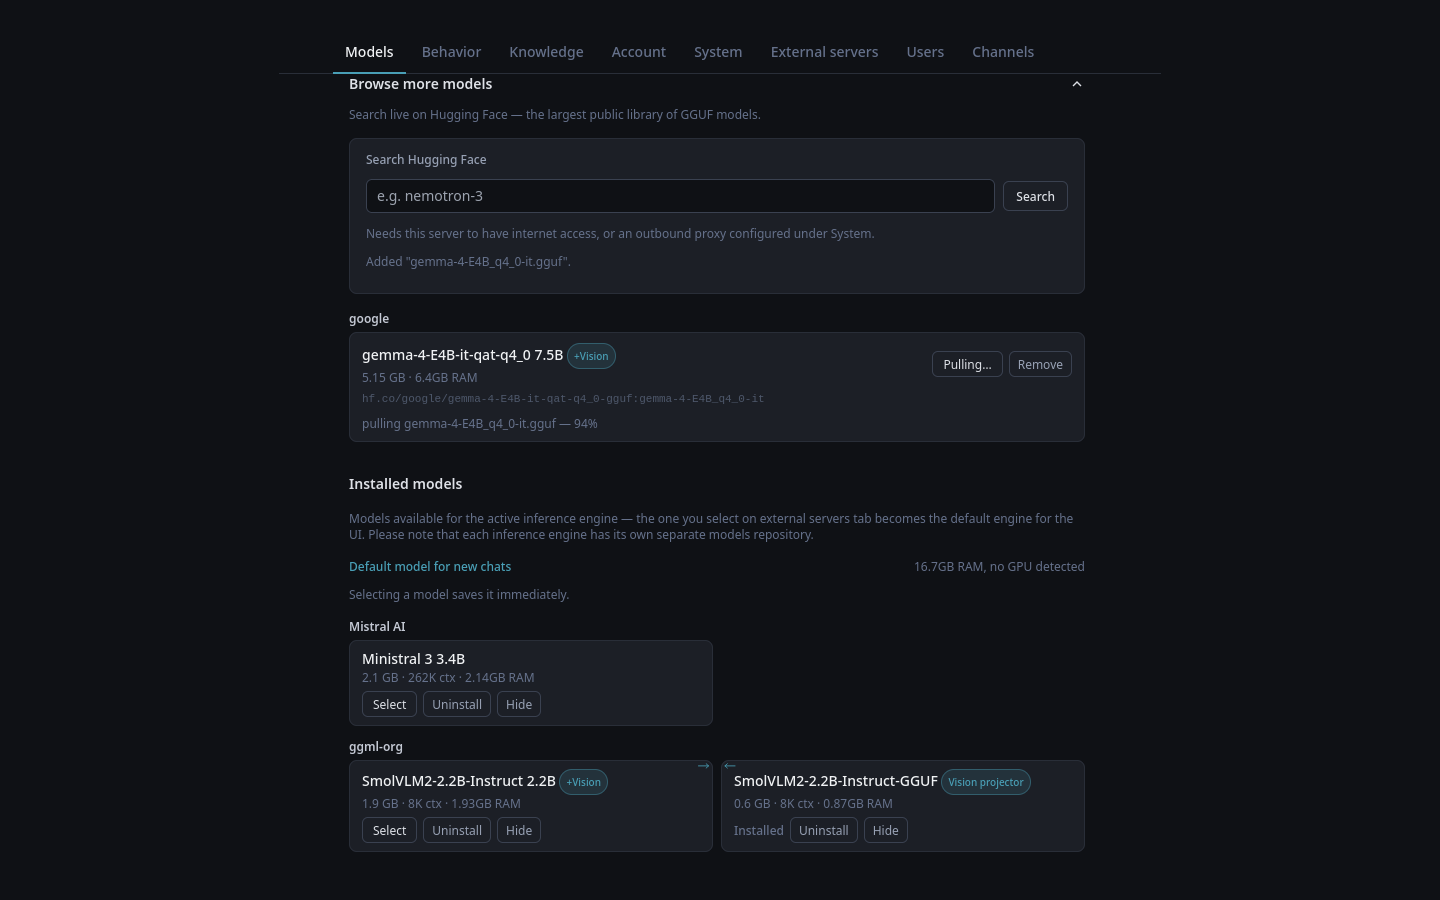
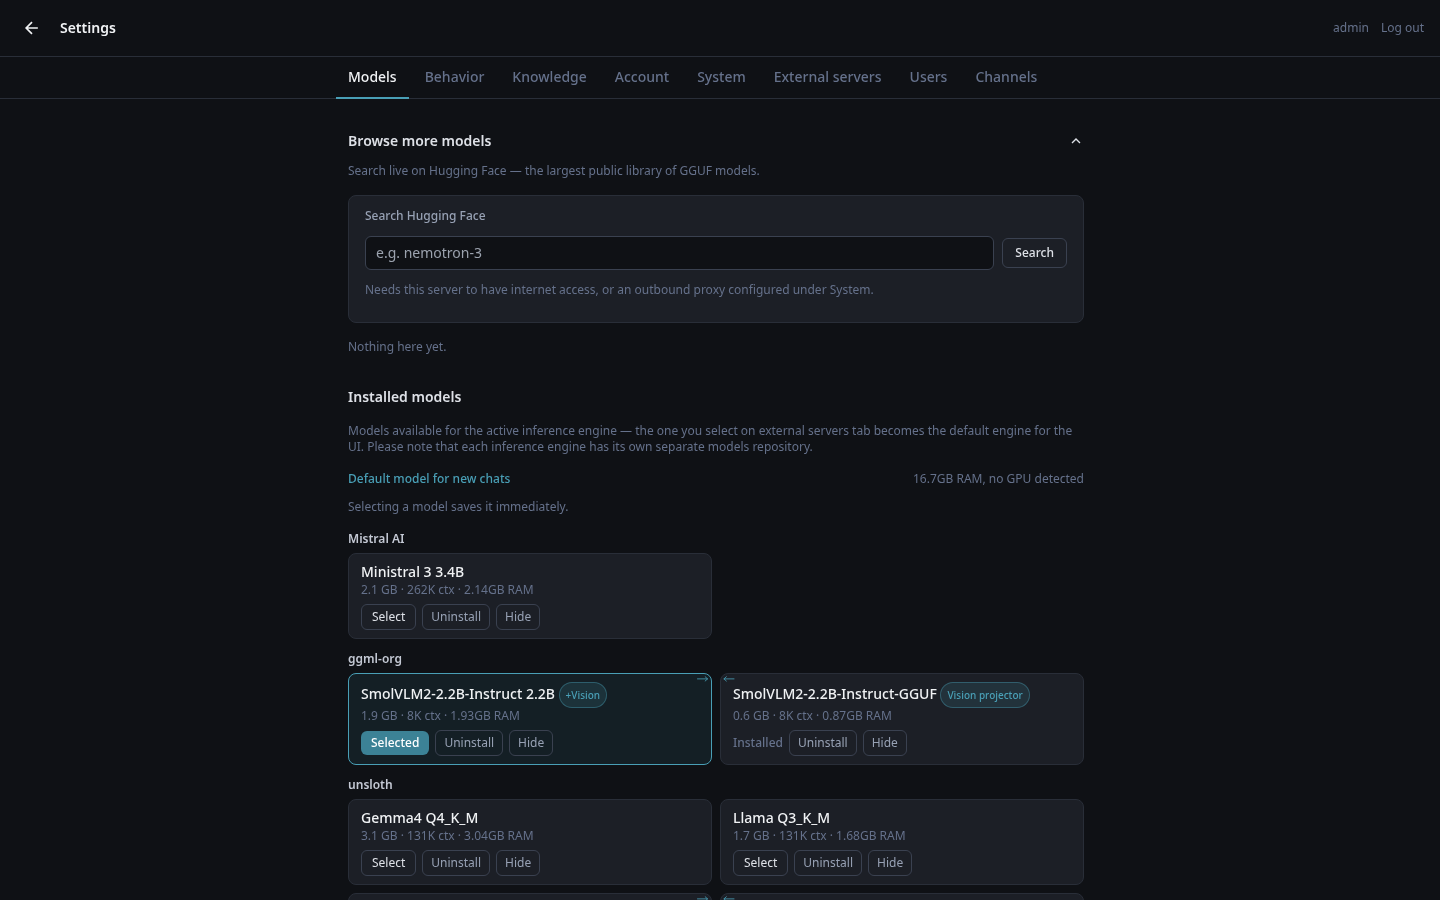
UI + readme.md fixes

diff --git a/app/static/js/workflow_diagram.js b/app/static/js/workflow_diagram.js
@@ -205,6 +205,22 @@ function initWorkflowDiagram() {
     .attr("fill-opacity", 0.14)
     .attr("stroke-width", 2);
 
+  // "K" (top-right) marks stages that run on the native C kernels.
+  nodeGroups
+    .filter((d) => d.native)
+    .append("text")
+    .attr("class", "wf-native-icon")
+    .attr("x", (d) => d.w - 11)
+    .attr("y", 18)
+    .attr("text-anchor", "middle")
+    .attr("fill", ThemeColors.get("--color-slate-300"))
+    .attr("font-size", "11.2px")
+    .attr("font-weight", "480")
+    .attr("font-family", "ui-monospace, Menlo, Consolas, monospace")
+    .text("K")
+    .append("title")
+    .text("Runs on native C kernels");
+
   root
     .append("g")
     .selectAll("text")

diff --git a/app/static/js/workflow_diagram_ml.js b/app/static/js/workflow_diagram_ml.js
@@ -32,11 +32,16 @@ const ML_GROUP = {
   ml_kernels: "ml_support", ml_kv: "ml_support",
 };
 
+// Stages that run on Matricxon's native C kernels (app/native/src/*.c) when that backend is built —
+// the quantized matmuls, embedding-row dequant and the gated delta rule. Marked with a chip icon.
+const ML_NATIVE = new Set(["ml_embed", "ml_attention", "ml_linear_attn", "ml_ffn", "ml_lm_head", "ml_kernels"]);
+
 function mlNode(id, label, col, y, title, location, body, size = {}) {
   return {
     id,
     label,
     category: ML_GROUP[id],
+    native: ML_NATIVE.has(id),
     x: size.x ?? ML_COL[col],
     y,
     w: size.w ?? ML_W,

diff --git a/README.md b/README.md
@@ -1,7 +1,7 @@
 <br>
 <div align="center">
 
-<img src="docs/logo.svg" alt="pAIring" height="64">
+<img src="docs/logo.svg" alt="pAIring" height="86">
 
 </div>
 
@@ -29,19 +29,35 @@ Configure it as a system service: `scripts/pairing.service` is a
 systemd unit template (Linux) — edit a couple of values and
 `systemctl enable` it.
 
-Supports MySQL migration, and multi-server deployment notes: see
-[README.md](README.md).
+Supports MySQL migration and multi-server deployment.
+
+**After install, open the UI and configure the essentials to get started:**
+
+1. Go to **Settings → External servers** and choose your inference engine. Ollama and Matricxon are supported (Matricxon has many more options but still has some important limitations — see the Matricxon repository for details). Both can be pulled and installed directly from there.
+2. After configuring the engine, go to **Settings → Models** and download some models. Embedding models are needed for RAG support, and vision projectors are needed for image understanding in chats and channels.
+3. Once the models are ready, go to **Settings → System** and set the important parameters (such as the default vision model).
+4. Run a few tests.
 
 ## ✨ Features
 
-**💬 Chat**
+**Advanced model management**
+- A model management system that lets you:
+  1. Search, browse and download models directly from Hugging Face repositories, with advanced search and visual indexing to make choosing the right model simple.
+  2. Pull recommended default models right away and get started.
+  3. Manage installed models simply and efficiently, and get started with a few recommended models through a simple pull request.
+
+**Behavior tuning**
+- Supports all the generation parameters (Temperature, Top-P, Top-K, Context window (tokens), and others).
+- Behavior tuning is per user: each user can change these values, and they affect only their own chats.
+
+**Chat**
 - Real-time streaming replies, with attachments (images + documents, up
   to 5 + 1 combined per message).
 - Per-conversation model switching and generation parameters
   (temperature, top-p/k, context window, repeat penalty, reply length).
 - Stop/cancel a reply mid-stream, smart or simple auto-titling.
 
-**👥 Real multi-user, with shared Channels**
+**Real multi-user, with shared Channels**
 - Every user has private conversations no one else can see or list.
 - **Channels** for shared, group conversations — a team standup, a
   student class testing models, whatever fits — with "live" (instant
@@ -49,19 +65,19 @@ Supports MySQL migration, and multi-server deployment notes: see
 - Per-channel managers — trusted members who can steer that channel's model/settings and pinned notes, without
   needing full admin rights over the whole system.
 
-**🧠 Notes — persona / rules / skill**
+**Notes — persona / rules / skill**
 - Reusable, pinnable notes that shape the system prompt per
   conversation — who the model is, what it must follow, what it's
   helping with — editable right from the chat header.
 
-**📚 Knowledge base (RAG)**
+**Knowledge base (RAG)**
 - Drop in `.txt`/`.md`/`.pdf`/`.docx`/`.odt`/`.rtf`/`.html`/`.csv`/`.json`
   and every conversation can automatically search them — a household
   manual or a team's internal docs, same mechanism either way
 - Private-per-user and shared/global scopes, with per-user storage
   quotas; answers cite which document they drew on.
 
-**📊 Live dashboards**
+**Live dashboards**
 - A real usage overview (conversations, messages, users, knowledge
   base).
 - An interactive D3 diagram of the app's own request pipeline, click
@@ -71,11 +87,11 @@ Supports MySQL migration, and multi-server deployment notes: see
   for the host — the kind of visibility that's nice to have and, for a
   shared/production deployment.
 
-**🌓 Robust theme support**
+**Robust theme support**
 - Robust themes schema, covering the whole app
 - Pick one from Settings or the header, with instant live preview.
 
-**🔐 Security, taken seriously either way**
+**Security, taken seriously either way**
 - bcrypt password hashing, signed session cookies, login rate limiting,
   timing-safe unknown-username handling.
 - Role-based access (admin/user); disabling an account keeps its
@@ -83,27 +99,31 @@ Supports MySQL migration, and multi-server deployment notes: see
 - SQLite out of the box, MySQL when you need more — switchable live.
 - Outbound HTTP proxy support with encrypted-at-rest credentials.
 
-**🖥 GPU-aware**
+**GPU-aware**
 - Live GPUs usage shows up right in the dashboard, alongside CPU/RAM/disk.
 
-**⚖ Load balancing**
+**Load balancing**
 - Point at extra ML engine (Ollama or Matricxon) servers (more GPUs, more machines) and this app spreads requests across them, with automatic failover if one goes down.
 - Can also run multiple copies of itself behind one URL, no reverse proxy needed.
 - Or, if you'd rather test it for enterprise use, use a reverse proxy (nginx, Caddy, ...) to balance across a ring of pAIring servers — that works too. All configurable directly from the UI.
 
-**🛡 Guardrails for admin changes**
+**Connectors**
+- Extend the system with connectors, which add support for more inference engines, such as cloud services that offer GPU and serverless ML. pAIring is intended to run privately or locally without external services and providers (except for downloading models), but this is a much appreciated optional extra.
+- At the moment there is only one connector, for RunPod.
+
+**Guardrails for admin changes**
 - Risky settings (switching database, external servers) get tested before they're saved, so a bad edit doesn't take the UI down.
 - If something's out of sync with what's actually running (like a hand-edited config file), you get updated.
 
-**🎨 Image generation**
+**Image generation**
 - Optional text-to-image Image generation,
   with browsable generation history (requires ComfyUI installed).
   
-**🛠 Nothing exotic to run**
+**Nothing exotic to run**
 - Plain HTML/CSS/JS + Tailwind's browser build — no Node, no build
   step, no extra services beyond the app itself.
 
-**🔌 Efficient API — fully documented**
+**Efficient API — fully documented**
 - The web UI is a client of pAIring's own JSON REST API — 90+ endpoints covering chat, channels,
   documents/RAG, notes, users, stats, telemetry, and every admin setting, so anything the UI can do, your own
   scripts/automation can do too.
@@ -112,7 +132,7 @@ Supports MySQL migration, and multi-server deployment notes: see
 
 <br>
 
-**💻 Runs on**
+**Runs on**
 - Linux — All features installed.
 - macOS also works — install Ollama or Matricxon yourself and point pAIring at it.
   Windows isn't supported at this point.
@@ -123,28 +143,55 @@ Supports MySQL migration, and multi-server deployment notes: see
 
 ## 📸 Screenshots
 
-| Chat | Usage dashboard |
-|---|---|
-| ![Chat](docs/screenshots/chat.png) | ![Stats overview](docs/screenshots/stats-overview.png) |
-
-| Visual chat workflow (D3) | System resource monitor |
-|---|---|
-| ![Workflow diagram](docs/screenshots/stats-workflow.png) | ![System dashboard](docs/screenshots/stats-system.png) |
-
-| Settings->behavior | Settings->models |
-|---|---|
-| ![Workflow diagram](docs/screenshots/settings-behavior.png) | ![System dashboard](docs/screenshots/settings-model.png) |
-
-| Settings->account | Settings->system |
-|---|---|
-| ![Workflow diagram](docs/screenshots/settings-account.png) | ![System dashboard](docs/screenshots/settings-system.png) |
+<table>
+  <tr>
+    <th width="50%">Chat</th>
+    <th width="50%">Usage dashboard</th>
+  </tr>
+  <tr>
+    <td><img src="docs/screenshots/chat.png" alt="Chat" width="100%"></td>
+    <td><img src="docs/screenshots/stats-overview.png" alt="Stats overview" width="100%"></td>
+  </tr>
+  <tr>
+    <th width="50%">Visual chat workflow (D3)</th>
+    <th width="50%">System resource monitor</th>
+  </tr>
+  <tr>
+    <td><img src="docs/screenshots/stats-workflow.png" alt="Workflow diagram" width="100%"></td>
+    <td><img src="docs/screenshots/stats-system.png" alt="System dashboard" width="100%"></td>
+  </tr>
+  <tr>
+    <th width="50%">Settings-&gt;models</th>
+    <th width="50%">Settings-&gt;behavior</th>
+  </tr>
+  <tr>
+    <td><img src="docs/screenshots/settings_models.png" alt="Settings models" width="100%"></td>
+    <td><img src="docs/screenshots/settings-behavior.png" alt="Settings behavior" width="100%"></td>
+  </tr>
+  <tr>
+    <th width="50%">Settings-&gt;account</th>
+    <th width="50%">Settings-&gt;system</th>
+  </tr>
+  <tr>
+    <td><img src="docs/screenshots/settings-account.png" alt="Settings account" width="100%"></td>
+    <td><img src="docs/screenshots/settings-system.png" alt="Settings system" width="100%"></td>
+  </tr>
+  <tr>
+    <th width="50%">Engine config</th>
+    <th width="50%">Supported architectures</th>
+  </tr>
+    <tr>
+    <td><img src="docs/screenshots/settings-external-matricxon.png" alt="Engine config" width="100%"></td>
+    <td><img src="docs/screenshots/stats-architectures.png" alt="Supported architectures" width="100%"></td>
+  </tr>
+</table>
 
 
 <br><br>
 
 ![Python](https://img.shields.io/badge/python-3.11%2B-blue)
 ![FastAPI](https://img.shields.io/badge/FastAPI-async-009688)
-![Self-hosted](https://img.shields.io/badge/self--hosted-yes-brightgreen)
+![Self-hosted](https://img.shields.io/badge/self--hosted-yes-pink)
 ![License](https://img.shields.io/badge/license-AGPL--3.0-blue)
 
 <br><br>
